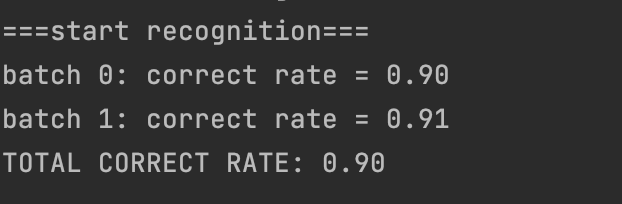
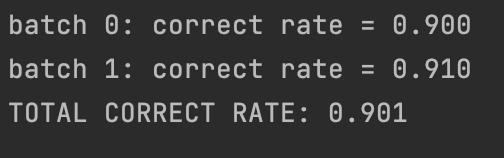
3.22-update

diff --git a/decision_fusion_guass.py b/decision_fusion_guass.py
@@ -202,7 +202,7 @@ prepare_transform_for_image()
 my_gabor_filter = Gabor_filters()
 my_gabor_filter.build_filters()
 
-dataset = 'tongji'
+dataset = 'IITD'
 model_folder = '/home/ubuntu/graduation_model/merge/'+dataset+'/'
 already_prepared = False
 root_path = '/home/ubuntu/dataset/'+dataset+'/test_session/'
@@ -230,7 +230,7 @@ with torch.no_grad():
     # print("===start generating gallery-dl-feature===")
     if not already_prepared:
         feature_gallery,code_gallery,palmmatrix,gallery_label = read_image_and_label(session1_dataloader)
-        pca = PCA(n_components=80).fit(palmmatrix)
+        pca = PCA(n_components=120).fit(palmmatrix)
         # n_components = 200
         # eigenpalms = pca.components_[:n_components]
         # weights = eigenpalms @ (palmmatrix - pca.mean_).T
@@ -251,7 +251,7 @@ with torch.no_grad():
         # code_gallery = feature_norm(code_gallery)
 
         print('===start merge features!===')
-        classic_cca = CCA(n_components=80)
+        classic_cca = CCA(n_components=120)
         classic_cca.fit(feature_gallery, pca_weights)
         dl_cca,pca_cca = classic_cca.transform(feature_gallery, pca_weights)
         merge_gallery = np.append(dl_cca,pca_cca,axis=1)
@@ -302,7 +302,7 @@ with torch.no_grad():
 
     # calculate dynamic weight
     # dl_weight,lda_weight,compcode_weight = calculate_weight([0.908,0.804,0.77])
-    dl_weight, lda_weight, compcode_weight = [0.908, 0.804, 0.8]
+    dl_weight,merge_weight, lda_weight, compcode_weight = [0.90,0.901, 0.804, 0.8]
 
     # print(dl_weight)
 
@@ -317,8 +317,8 @@ with torch.no_grad():
         # break
         vote_box = {}
         # dl-vote
-        vote_box = vote(vote_box,feature_gallery,test_dl_feature[idx].reshape(1,-1),0.91)
-        vote_box = vote(vote_box,merge_gallery,test_merge[idx].reshape(1,-1),dl_weight)
+        vote_box = vote(vote_box,feature_gallery,test_dl_feature[idx].reshape(1,-1),dl_weight)
+        vote_box = vote(vote_box,merge_gallery,test_merge[idx].reshape(1,-1),merge_weight)
         vote_box =vote(vote_box,weights,query[idx].reshape(1,-1),lda_weight)
         # print(vote_box)
         vote_box = vote(vote_box,code_gallery,test_code_feature[idx].reshape(1,-1),compcode_weight)

diff --git a/subspace_test.py b/subspace_test.py
@@ -105,7 +105,7 @@ kpca = load(save_kpca_PATH)
 lda = load(save_lda_PATH)
 # 生成特征脸
 n_components = 80
-eigenpalms = pca.components_[:n_components]
+# eigenpalms = pca.components_[:n_components]
 
 # 权重
 # weights = eigenpalms @ (palmmatrix - pca.mean_).T
@@ -115,12 +115,13 @@ eigenpalms = pca.components_[:n_components]
 # print(kpca_weights.shape)
 # merge_sub_gallery = np.append(weights,kpca_weights,axis=1)
 weights = lda.transform(palmmatrix)
-print(weights.shape)
+# print(weights.shape)
+# weights = pca.transform(palmmatrix)
 
 # 训练svm
-svm = SVC(kernel='rbf')
-svm.fit(weights,palmlabel)
-dump(svm,save_svm_PATH)
+# svm = SVC(kernel='rbf')
+# svm.fit(weights,palmlabel)
+# dump(svm,save_svm_PATH)
 
 # 测试
 print('===start test!===')
@@ -133,7 +134,7 @@ batch = 0
 # query = pca.transform(testmatrix)
 # test_sub = np.append(query,query_kpca,axis=1)
 query = lda.transform(testmatrix)
-print(query.shape)
+# print(query.shape)
 # print(query_kpca.shape)
 while idx < len(query):
     # query = testmatrix[idx].reshape(1, -1)
@@ -144,11 +145,11 @@ while idx < len(query):
     # print(query_weight.shape)
     # print(weights.shape)
     # cos_similarity = calculate_cos_similar(weights,query_weight)
-    best_match = svm.predict(query[idx].reshape(1,-1))
-    if best_match[0] == testlabel[idx]:
-    # cos_similarity = cosine_similarity(weights,query[idx].reshape(1,-1))
-    # best_match = np.argmax(cos_similarity)
-    # if palmlabel[best_match] == testlabel[idx]:
+    # best_match = svm.predict(query[idx].reshape(1,-1))
+    # if best_match[0] == testlabel[idx]:
+    cos_similarity = cosine_similarity(weights,query[idx].reshape(1,-1))
+    best_match = np.argmax(cos_similarity)
+    if palmlabel[best_match] == testlabel[idx]:
         cur_correct+=1
         total_correct+=1
     if (idx+1)%100 == 0:

diff --git a/cca_merge_all_features.py b/cca_merge_all_features.py
@@ -208,7 +208,7 @@ with torch.no_grad():
     # weights = weights.T
     gallery_label = torch.tensor(gallery_label, device='cpu').numpy()
     lda = LDA(n_components=80).fit(palmmatrix,gallery_label)
-    pca = PCA(n_components=80).fit(palmmatrix)
+    pca = PCA(n_components=120).fit(palmmatrix)
     weights = pca.transform(palmmatrix)
     # weights = lda.transform(palmmatrix)
     print("===completed!===")
@@ -224,7 +224,7 @@ with torch.no_grad():
     feature_gallery = feature_gallery.cpu().numpy()
     # print(feature_gallery.shape)
     # print(palmmatrix.shape)
-    classic_cca = CCA(n_components=80)
+    classic_cca = CCA(n_components=120)
     dl_cca = CCA(n_components=60)
     # print(code_gallery.shape)
     # print(weights.shape)

diff --git a/subspace.py b/subspace.py
@@ -53,7 +53,7 @@ def prepare_transform_for_image():
 
 
 # 读入图像
-dataset = 'CASIA'
+dataset = 'tongji'
 img_PATH = '/home/ubuntu/dataset/'+dataset+'/test_session/session1/'
 label_PATH = '/home/ubuntu/dataset/'+dataset+'/test_session/session1_label.txt'
 save_pca_PATH = '/home/ubuntu/graduation_model/palmmatrix_test_session1.joblib'

diff --git a/texture_LBP.py b/texture_LBP.py
@@ -72,7 +72,7 @@ def read_image_and_label(labelpath, imgpath, state='train'):
 
 radius = 1
 n_points = 8 * radius
-dataset = 'IITD'
+dataset = 'CASIA'
 # 读入图像
 img_PATH = '/home/ubuntu/dataset/'+dataset+'/test_session/session1/'
 label_PATH = '/home/ubuntu/dataset/'+dataset+'/test_session/session1_label.txt'

diff --git a/texture_CompCode.py b/texture_CompCode.py
@@ -137,7 +137,7 @@ def read_image_and_label(labelpath, imgpath, state='train'):
     return code_g, labels
 
 
-dataset = 'IITD'
+dataset = 'tongji'
 # 读入图像
 img_PATH = '/home/ubuntu/dataset/'+dataset+'/test_session/session1/'
 label_PATH = '/home/ubuntu/dataset/'+dataset+'/test_session/session1_label.txt'

diff --git a/merge_classic2methods.py b/merge_classic2methods.py
@@ -150,7 +150,7 @@ palmlabel = np.load(save_label)
 print('===start load pca!===')
 palmmatrix = np.load(save_numpy_PATH)
 pca = load(save_pca_PATH)
-n_components = 50
+n_components = 120
 eigenpalms = pca.components_[:n_components]
 weights = eigenpalms @ (palmmatrix - pca.mean_).T
 weights = weights.T
